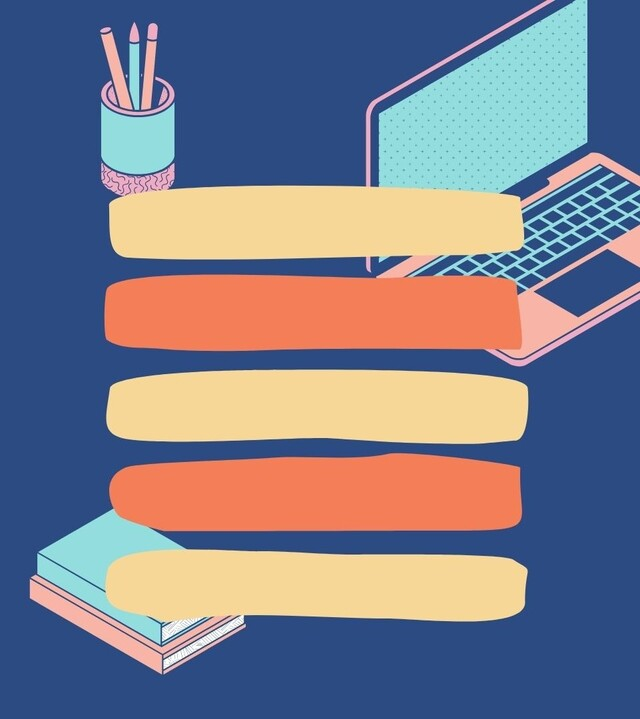
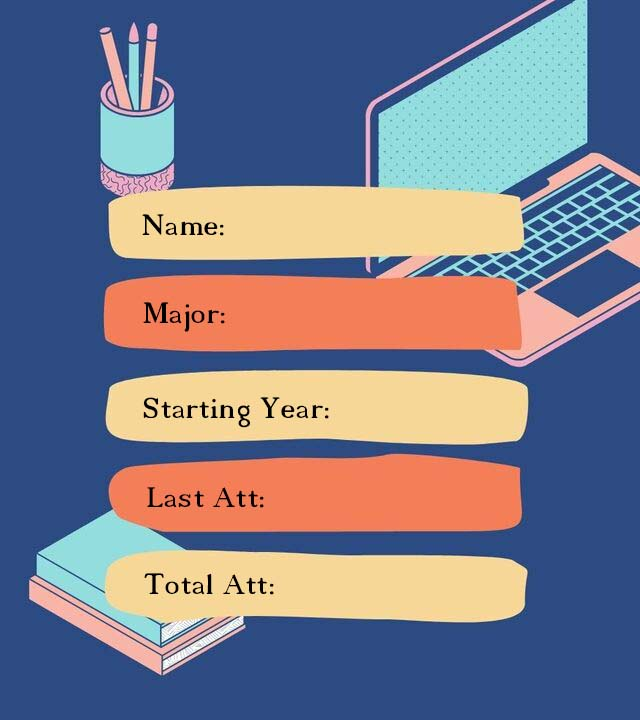
Adding data to real-time database.

diff --git a/main.py b/main.py
@@ -4,6 +4,13 @@ import numpy as np
 import cvzone
 import cv2
 import face_recognition
+import firebase_admin
+from firebase_admin import credentials, db
+
+cred = credentials.Certificate("serviceAccountKey.json")
+firebase_admin.initialize_app(cred, {
+    'databaseURL':'https://graduation-project-cbc74-default-rtdb.europe-west1.firebasedatabase.app/'
+})
 
 cap = cv2.VideoCapture(0)
 cap.set(3,640) #Width
@@ -23,12 +30,16 @@ for path in modePathList:
 print('Loading Encoded File Started...')
 file = open('EncodeFile.p', 'rb')
 print('Loading Encoded File Completed')
+
 encodeListKnownwithIds = pickle.load(file)
 file.close()
 encodeListKnown, studentIds = encodeListKnownwithIds
 
 #print(studentIds)
 
+modeType =0 # It shows us it's active
+counter =0
+id = -1
 
 while True:
     success, img =cap.read()
@@ -43,7 +54,7 @@ while True:
 
 
     imgBackground[190:190 + 480, 40:40 + 640] = img
-    imgBackground[0:0+720,640:640+640] = imgModeList[0]
+    imgBackground[0:0+720,640:640+640] = imgModeList[modeType]
 
     # We are zipping these together to use them in one loop
     for encodeFace, faceLoc in zip(encodeCurFrame, faceCurFrame):
@@ -66,6 +77,46 @@ while True:
             #Showing the cam's location on background photo.
             bbox = 40+ x1, 190+ y1, x2-x1, y2-y1
             imgBackground = cvzone.cornerRect(imgBackground, bbox, rt=0)
+            id = studentIds[matchIndex]
+            if counter==0:
+                counter = 1
+                modeType = 1
+    if counter != 0:
+
+        #We'll download all the data from realtime database.
+        if counter ==1:
+            studentInfo = db.reference(f'Students/{id}').get()
+            print(studentInfo)
+
+            #Updating data of attendance
+            ref = db.reference(f'Students/{id}')
+            studentInfo['total attendance'] += 1
+            ref.child('total attendance').set(studentInfo['total attendance'])
+
+        #Marked mode.
+        if 60<counter<=110:
+            modeType=2
+
+        imgBackground[0:0 + 720, 640:640 + 640] = imgModeList[modeType]
+
+        #Student informations
+        if counter <=60:
+            #Writing this data to application background manually. Not so accurate, need to upgraded.
+            cv2.putText(imgBackground ,str(studentInfo['name']), (868,236),
+                        cv2.FONT_HERSHEY_COMPLEX,1,(0,0,0),1)
+            cv2.putText(imgBackground, str(studentInfo['major']), (868, 322),
+                        cv2.FONT_HERSHEY_COMPLEX, 0.65, (0, 0, 0),1)
+            cv2.putText(imgBackground, str(studentInfo['starting Year']), (972, 418),
+                        cv2.FONT_HERSHEY_COMPLEX, 0.65, (0, 0, 0), 1)
+            cv2.putText(imgBackground, str(studentInfo['last_attendance_time']), (907, 507),
+                        cv2.FONT_HERSHEY_COMPLEX, 0.65, (0, 0, 0), 1)
+            cv2.putText(imgBackground, str(studentInfo['total attendance']), (917, 595),
+                        cv2.FONT_HERSHEY_COMPLEX, 0.65, (0, 0, 0), 1)
+
+        counter +=1
+
+
+
 
     cv2.imshow("Face Attendance", imgBackground)
     cv2.waitKey(1)

diff --git a/addDataToDatabase.py b/addDataToDatabase.py
@@ -1,6 +1,5 @@
 import firebase_admin
-from firebase_admin import credentials
-from firebase_admin import db
+from firebase_admin import credentials,db
 
 cred = credentials.Certificate("serviceAccountKey.json")
 firebase_admin.initialize_app(cred, {
